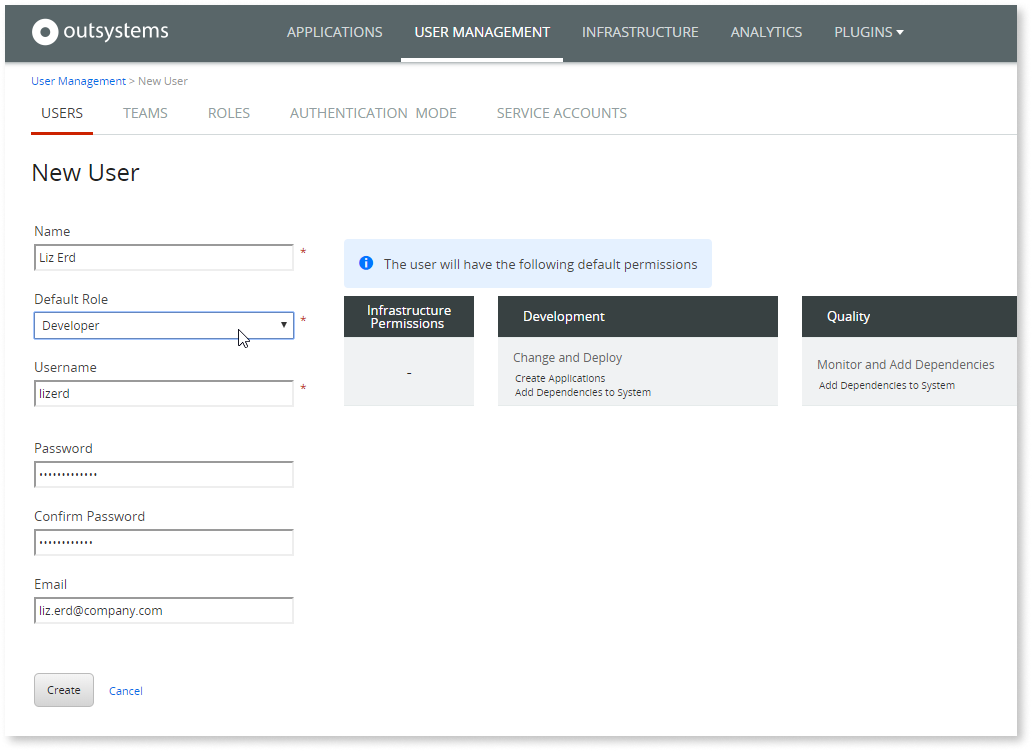
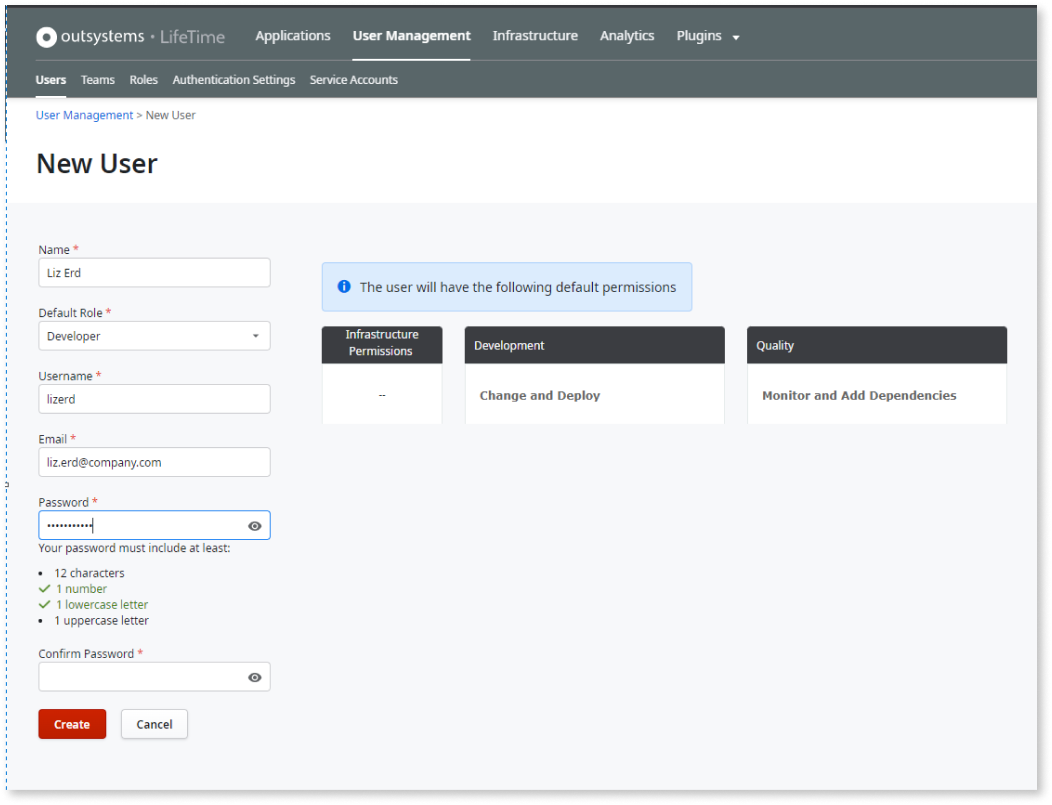
New pw complexity content

diff --git a/src/managing-the-applications-lifecycle/manage-it-teams/create-an-it-user.md b/src/managing-the-applications-lifecycle/manage-it-teams/create-an-it-user.md
@@ -10,13 +10,19 @@ platform-version: o11
 
 OutSystems allows you to manage IT users like developers, testers, and operators.
 
-When adding a new user they need to be given a username in order to log in to the platform. This username will be their own unique indentifier. Consider that a new developer just joined the company. To create the new IT user, follow these steps:
+When adding a new user they must be given a username to log into the platform. This username is their own unique identifier. 
+
+For example, a new developer just joined the company. To create the new IT user, follow these steps:
 
 1. In your LifeTime console (`https://<lifetime_env>/lifetime`), go to the **USER MANAGEMENT** area.
 
 1. Choose **USERS** and click the **New User** link.
 
-1. Fill in the form with the user’s information. You must set the **Default Role** of the user by this time. Afterward, you can grant the user with additional permissions through teams or for specific applications. While selecting the user's **Default Role**, you will get a preview of the default permissions that will be granted to the user by assigning that role.  
+1. Complete the form with the user’s information. 
+
+    You must set the **Default Role** of the user. Afterward, you can grant the user with additional permissions through teams or for specific applications. While selecting the user's **Default Role**, you get a preview of the default permissions that will be granted to the user by assigning that role.  
+
+    Note: Note: The password must meet the password complexity rules. It must have at least 12 characters including at least one number, one lowercase letter, and one uppercase letter. The password complexity rule is applicable only when a new password is created or an existing password is updated.
 
     ![](images/user-create-lt.png)
 

diff --git a/src/ref/apis/auto/lifetime-deployment-api-v2.final.md b/src/ref/apis/auto/lifetime-deployment-api-v2.final.md
@@ -10160,6 +10160,7 @@ Go to
 <div  class="panel panel-definition">
 <div class="panel-body">
 <a class="json-schema-ref" href="#/definitions/Password">Password</a>
+<p>Passwords must meet the password complexity rules which means that the password must have at least 12 characters, including at least one number, one lowercase letter, and one uppercase letter.</p>
 </div>
 </div></div>
 </div>
@@ -10217,7 +10218,7 @@ UserKey
 <dd class="sw-response-400">
 <div class="rowr">
 <div class="col-md-12">
-<p>Failed to change password because password is invalid.</p>
+<p> Failed to change password because the password is invalid.</p>
 </div>
 </div>
 <div class="rowr">
